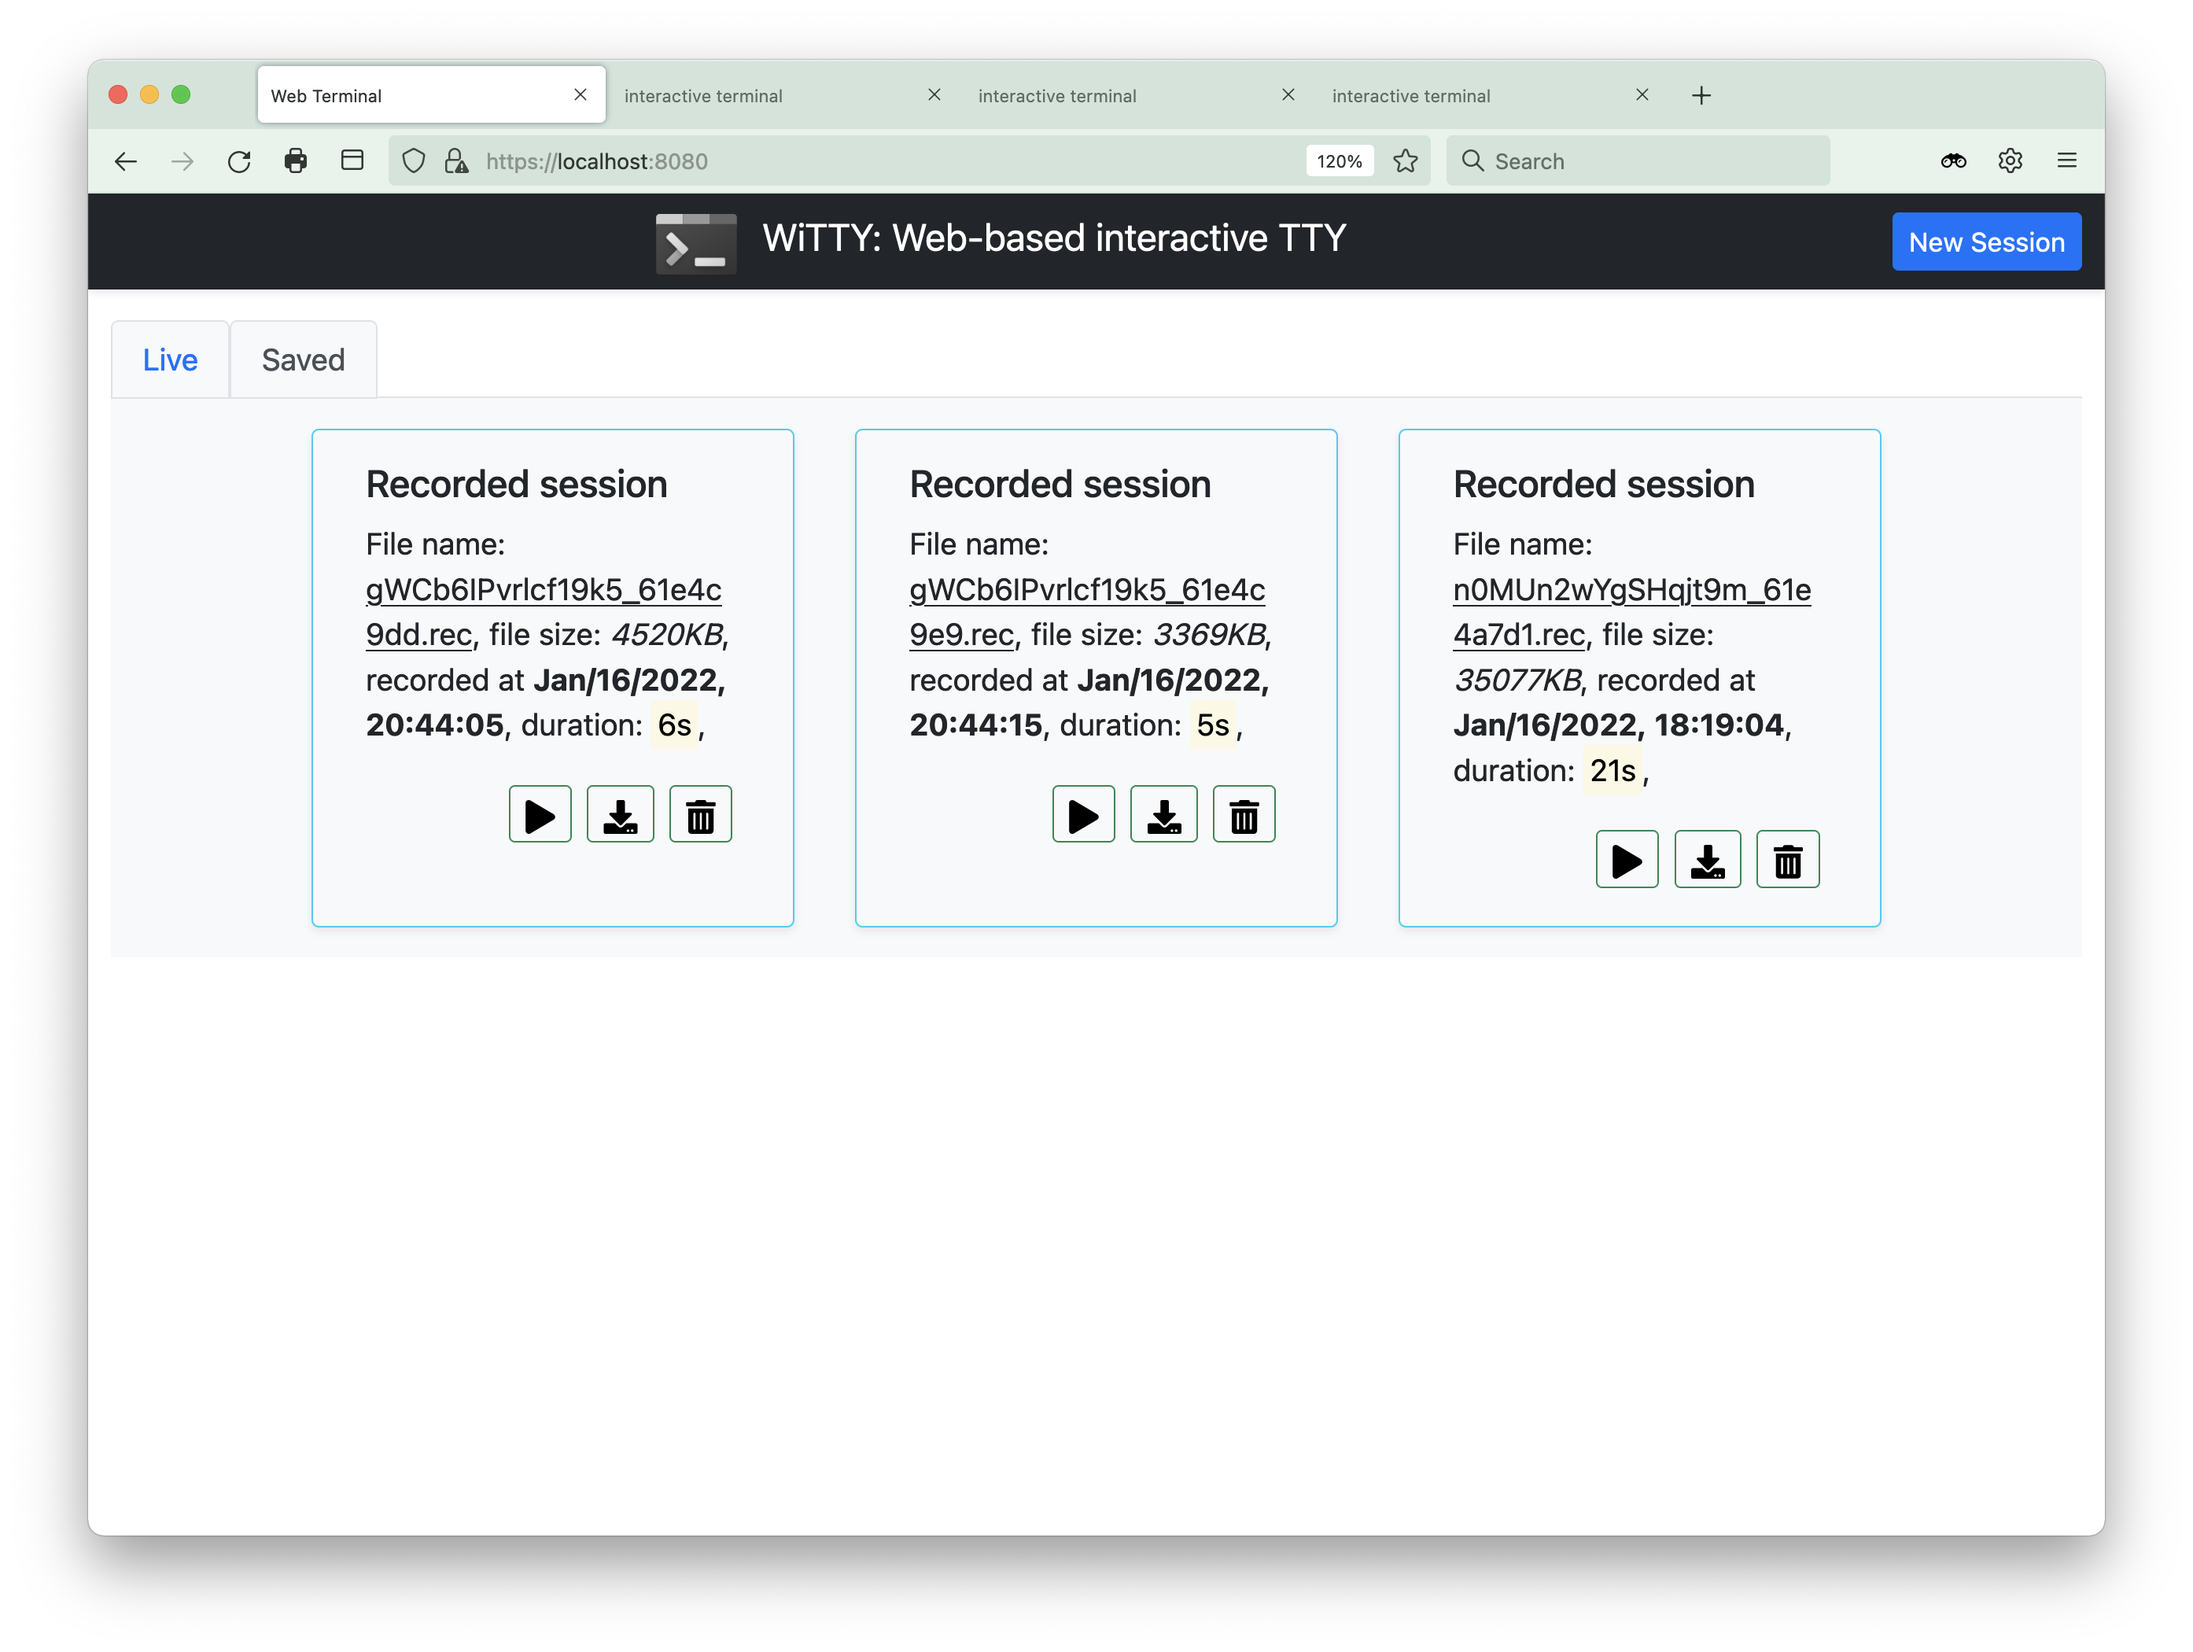
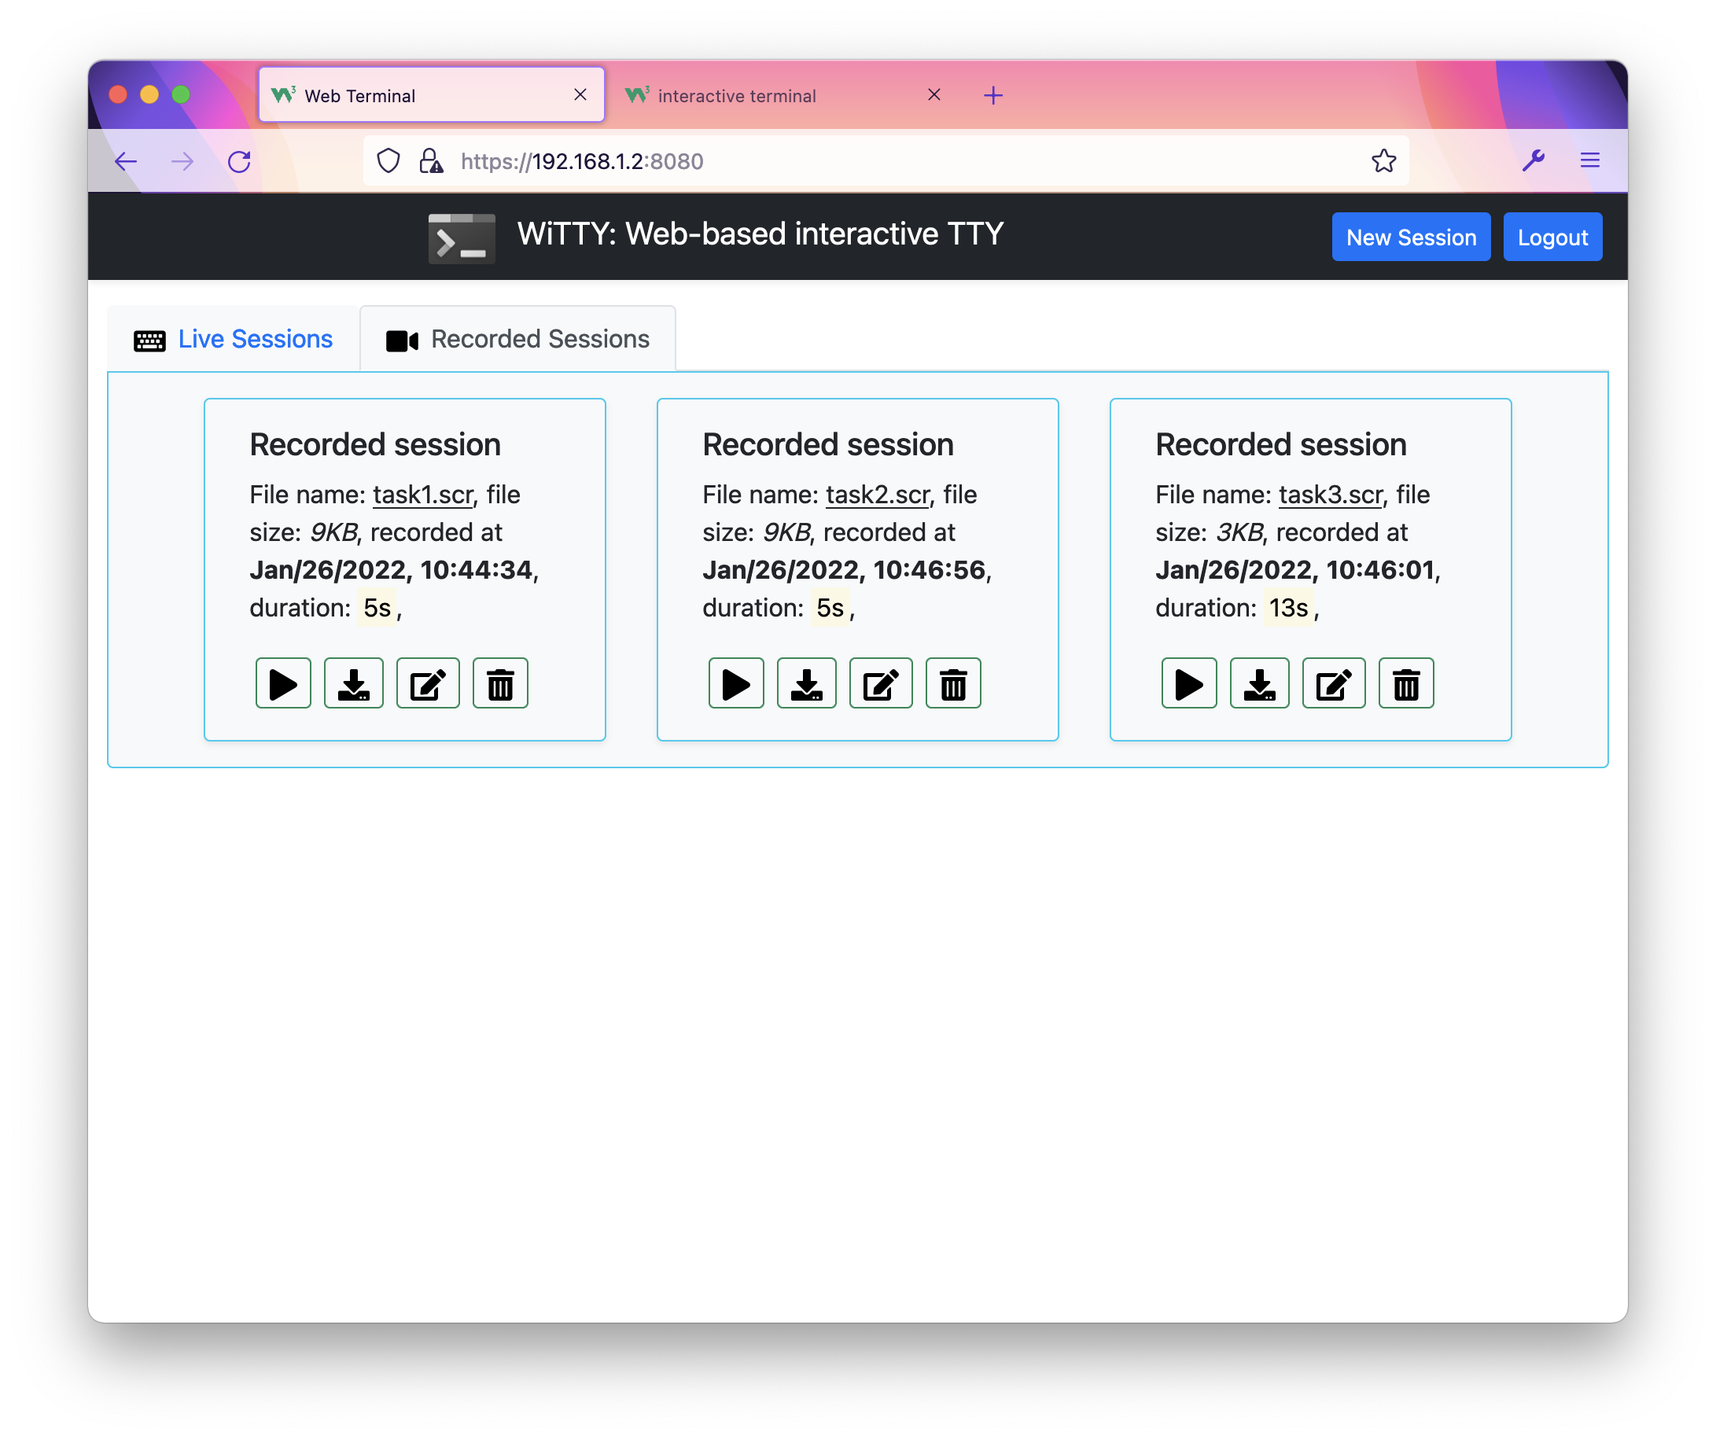
update document

Changed region(s): [[0.0312, 0.0311, 0.9661, 0.9656], [0.374, 0.2492, 0.8726, 0.5607]]

diff --git a/term_conn/merge.go b/term_conn/merge.go
@@ -4,6 +4,7 @@ import (
 	"encoding/json"
 	"log"
 	"os"
+	"strings"
 )
 
 func Merge(fnames []string, output string) {
@@ -32,6 +33,10 @@ func Merge(fnames []string, output string) {
 	if err != nil {
 		log.Println("Failed to merge into JSON format", err)
 		return
+	}
+
+	if !strings.HasSuffix(output, ".scr") {
+		output += ".scr"
 	}
 
 	os.WriteFile(output, data, 0664)

diff --git a/web/user.go b/web/user.go
@@ -38,7 +38,6 @@ func addUser(username []byte, passwd []byte) {
 	file, err := os.ReadFile(userFileName)
 
 	if err != nil {
-		log.Println("Failed to read user.db file", err)
 		goto nonexist
 	}
 

diff --git a/README.md b/README.md
@@ -1,28 +1,38 @@
-# WiTTY: Web-based interactive TTY
-This program allows you to use terminal in the browser. Simply run the program and give it the command to execute when users connect via the browser. The main design goal of this tool is to help teaching courses that use Unix-like CLI environment. WiTTY has the following features that distinguish itself from other similar tools:
+<mark>**WiTTY: Web-based interactive TTY**<mark>
 
-1. It allows others to **view onging interactive sessions**. This is useful for providing live remote support and/or help (only use this after user authentication is implemented). 
+# Introduction
 
-   A challenge of this use case is that our home networks are almost always behind NAT, making it diffcult to run WiTTY as a publicly accessible server. Security is also a concern. It is generally safer to use WiTTY in a trusted environment.
+This program allows you to use terminal in the browser. Simply run the program and give it the command to execute when users connect via the browser. The design goal of this tool is to help teaching courses that use Unix-like CLI environment. WiTTY has the following features that distinguish itself from other similar tools:
 
-2. WiTTY allows users to **easily record, replay, and share console sessions** with just a few clicks. This make it a breeze to answer course-related questions, espeically with the source code. Instead of wall of text to describe their questions, students can just send a recorded session. 
+1. WiTTY allows users to **easily record, replay, and share console sessions** with just a few clicks. This make it a breeze to answer course-related questions. Instead of wall of text to describe their questions, students can just send a recorded session. 
+   
+2. It allows others to **view ongoing interactive sessions**. This is useful for providing live remote help. 
 
-   This repository contains a recorded session in the ```assets/extra``` directory ([M1NXZvHdvA8vSCKp_61e5d60f.scr](extra/M1NXZvHdvA8vSCKp_61e5d60f.scr)) that shows me upgrading pihole. Just put the file under the ```records``` directory, run the server, you should find the recording in the ```Recorded Session``` tab. 
+   >A challenge of this use case is that our home networks are almost always behind NAT, making it difficult to run WiTTY as a publicly accessible server. Security is also potentially a concern.
 
-3. More features are planned, suggestions are welcome.  
+3. Great attention has been paid to ensure the cleanses of the code. This, hopefully, provides a useful example of **Do as I say and as I do**. 
 
-You can use WiTTY to run any command line programs, such as ```bash```, ```htop```, ```vi```, ```ssh```. This following screenshot shows that three interactive session running ```zsh``` on macOS Monterey. <img src="extra/main.png" width="800px">
+# User Interface
 
-The following screenshot shows three recorded sessions. You can replay/download/delete them. 
-<img src="extra/view.png" width="800px">
+You can use WiTTY to run any command line programs, such as ```bash```, ```htop```, ```vi```, ```ssh```. This screenshot shows the main page of WiTTY after login. There are two tabs that list live and recorded sessions, respectively. You can click ```New Session``` to create a new interactive session. Click the <img src="assets/img/view.svg" width="16px"> icon of an interactive session opens a read-only view of that session. <img src="extra/main.png" width="640px">
+
+
+On the interactive terminal window, you can record an ongoing session. 
+
+<img src="extra/interactive.png" width="640px">
+
+This screenshot shows three recorded sessions, you can replay <img src="assets/img/play.svg" width="16px">, download <img src="assets/img/download.svg" width="16px">, rename <img src="assets/img/edit.svg" width="16px">, and delete <img src="assets/img/delete.svg" width="16px"> recorded session. 
+
+<img src="extra/view.png" width="640px">
 
 
 Here is a recorded session, where we domonstrate how to use the command line replay utility (in ```cmd/replay```) to replay another recorded session that sshes into a Raspberry Pi running 
-[pi-hole](https://pi-hole.net/). You can pause and seek the replay.
+[pi-hole](https://pi-hole.net/). You can fully control the playback using the progress bar.
 
 >The inception is strong with this one!
 
-<img src="extra/replay.gif?raw=true" width="800px">
+<img src="extra/replay.gif" width="550px">&nbsp;&nbsp;&nbsp;&nbsp;&nbsp;&nbsp;
+
 
 <!-- 
 commands to create high quality gif from mkv/mp4 files
@@ -32,23 +42,23 @@ gifsicle -O3 .\output.gif -o replay.gif
 -->
 
 
-To use the program, you need to provide a TLS cert. You can request a free [Let's Encrypt](https://letsencrypt.org/) cert or use a self-signed cert. By default, WiTTY authenticate users with username and password. You can add a new user using ```witty adduser <username>```, and delete an existing user with ```witty deluser <username>```. It is also possible to disable user authentication with ```-n/-naked``` to the run command. For example, ```witty run -n zsh``` will run zsh without user authentication. 
-
 This program is written in the [go programming language](https://go.dev/), using the 
 [Gin web framework](https://github.com/gin-gonic/gin), [gorilla/websocket](https://github.com/gorilla/websocket), [pty](https://github.com/creack/pty), and the wonderful [xterm.js](https://xtermjs.org/)!
 The workflow is simple, the client will initiate a terminal 
 window (xterm.js) and create a websocket with the server, which relays the data between pty and xterm. You can customize the look and feel of the HTML pages by editing files under the ```assets``` directory.
 
+The program has been tested on Linux, WSL2, Raspberry Pi 3B (Debian), and MacOSX using Google Chrome, Firefox, and Safari.
+
 Most icons were provided by [fontawesome](https://fontawesome.com/) under this [license](https://fontawesome.com/license).
 
-## Installation
+# Installation
 
 1. Install the [go](https://go.dev/) compiler. __Make sure you have go 1.17 or higher.__ 
 2. Download the release and unzip it, or clone the repo
    
    ```git clone https://github.com/syssecfsu/witty.git```
 
-3. Go to the ```tls``` directory and create a self-signed cert
+3. WiTTY uses TLS to protect traffic. You can request a free [Let's Encrypt](https://letsencrypt.org/) cert or use a self-signed cert. Here is how to create a self-signed cert in the ```tls``` sub-directory:
    
    \# Generate a private key for a curve
 
@@ -66,26 +76,49 @@ Most icons were provided by [fontawesome](https://fontawesome.com/) under this [
    
    ```./witty adduser <username>```
 
-6. Start the server and give it the command to run. The server listens on 8080, for example:
+6. Start the server and give it the command to run. By default, the server listens on 8080 (you can override it with the ```-p/-port``` option):
    
    ```./witty run htop``` or
 
-   ```./witty run ssh <ssh_server_ip> -l <user_name>```
+   ```./witty run -p 9000 ssh <ssh_server_ip> -l <user_name>```
 
    If so desired, you can disable user authenticate with ```-n/-naked```, (not recommended) for example:
 
    ```./witty run -naked htop```    
 
-   You can also specify the port number WiTTY listens on with ```-p/port```. For example:
-
-   ```./witty run -p 9090 ssh 192.168.1.2```
-
-7. Connect to the server with your browser, using port 8080 or the one specified in step 6, for example
+7. Connect to the server with your browser at port 8080 or the one specified in step 6, for example
 
    ```https://<witty_server_ip>:8080```
 
-8. You can also replay the recorded sessions with witty. Set your terminal window to 120x36 before using this. 
+# User Authentication
 
-   ```./witty replay -w 500 records/<recorded file>.scr```
+WiTTY uses username/password based authentication. The user database is stored in ```user.db```. The passwords are salted with 64 bytes of random characters and then hashed using SHA256.  WiTTY has three sub-commands to manage ```user.db```. 
 
-The program has been tested on Linux, WSL2, Raspberry Pi 3B (Debian), and MacOSX using Google Chrome, Firefox, and Safari.
+   - ```witty adduser <username>```
+   - ```witty deluser <username>```
+   - ```witty listusers```
+
+They are pretty self-explanatory. Just follow the instructions on screen. Note that passwords must be 12 bytes or longer. The following screenshot shows the login screen:
+
+<img src="extra/login.png" width="320px">&nbsp;&nbsp;&nbsp;&nbsp;&nbsp;&nbsp;
+
+
+# Recorded Sessions
+
+WiTTY provides two sub-commands to merge and replay recorded sessions. 
+
+   - ```witty replay -w <wait_time> <recorded_session>```
+   - ```witty merge -o <output_file> <record1> <record2> ...```
+
+Recorded sessions often have long delay between outputs. You can set wait_time to limit the maximum wait time between outputs, to speed up the replay. 
+
+You can also use ```witty merge``` to merge two or more recorded sessions. 
+
+The intended use case is to record a separate session for each individual task, rename and merge them into a final session for submission. 
+
+The following screenshot shows how to rename a recorded session, and combine them into the final session. 
+
+<img src="extra/rename.png" width="640px">
+
+
+<img src="extra/merge.png" width="550px">
